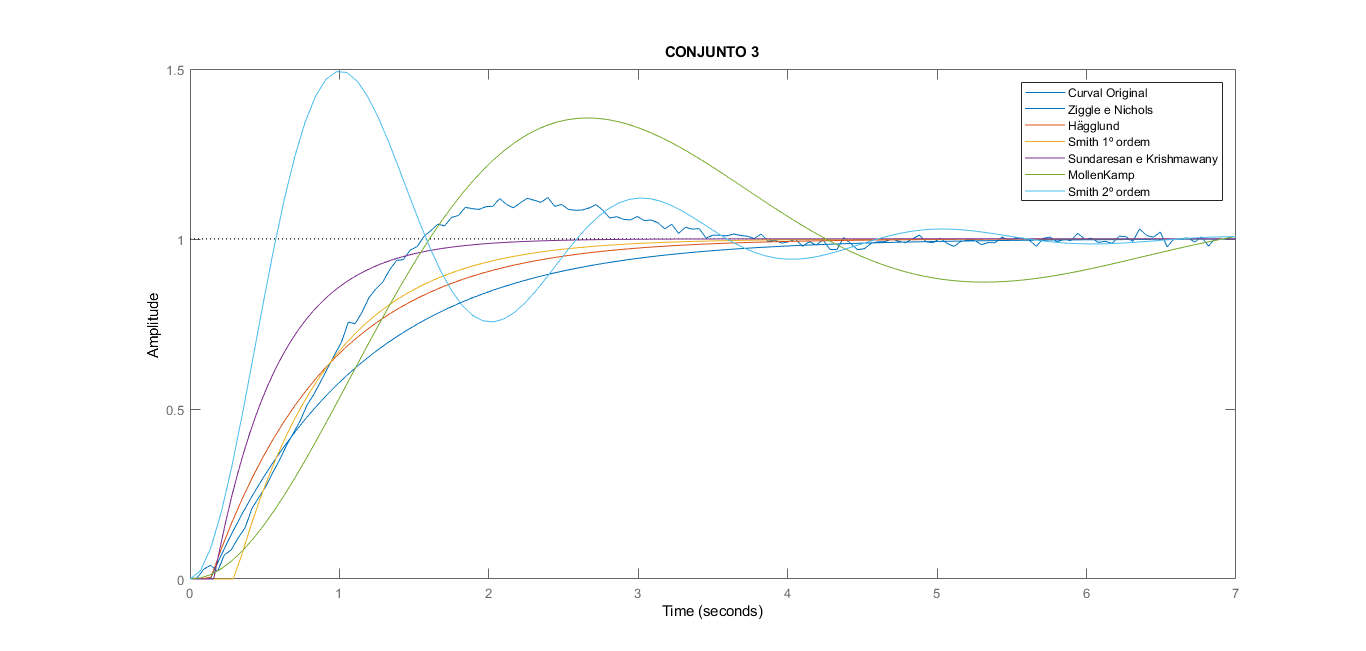
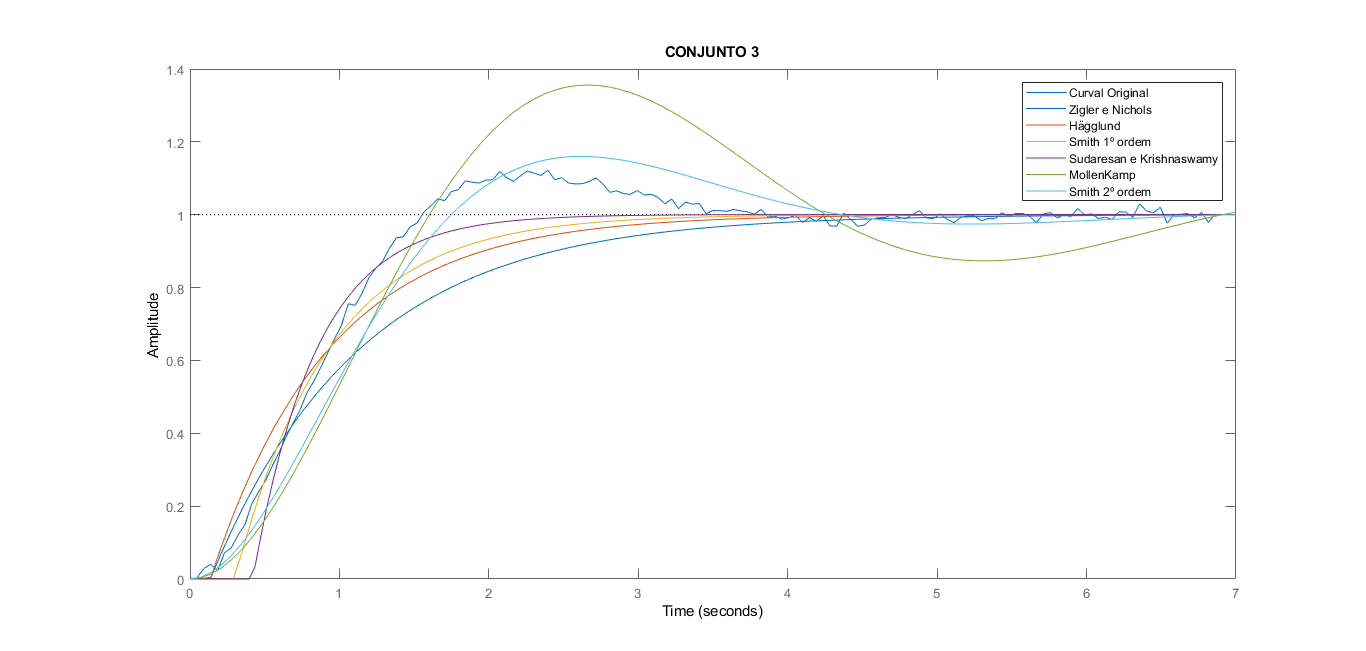
Ywana-Seborg

Changed region(s): [[0.123, 0.1229, 0.8917, 0.8909]]

diff --git a/Ywana_Seborg/Ywana_Seborg.m b/Ywana_Seborg/Ywana_Seborg.m
@@ -1,0 +1,66 @@
+s = tf('s');
+
+%% First
+
+kc = 1;
+
+g1 = 1/((s+1)^5);
+
+tf1 = g1*kc/(g1*kc+1);
+
+[y_step, t_step] = step(tf1);
+
+%%
+
+%plot(t_step, y_step)
+
+[y_p1,M] = max(y_step);
+
+y_length = length(y_step);
+
+y_inf = y_step(y_length); 
+
+y_desc = y_step(M:y_length);
+
+[y_m,M2] = min(y_desc);
+
+y_length2 = length(y_desc);
+
+y_desc2 = y_desc(M2:y_length2);
+
+y_p2 = max(y_desc2);
+
+%%
+theta = 1;
+tau = 1;
+A = 1;
+k = y_inf/(kc*(A-y_inf));
+kf = kc*k;
+
+k_linha = kf/(kf+1);
+
+tau_linha = ((theta*tau)/(2*(kf+1)))^0.5; 
+
+zeta_tf = (tau+0.5*theta*(1-kc))/(2*theta*tau*(kc+1))^0.5;
+
+
+%%
+s = tf('s')
+kp = 1;
+g1 = 1/((s+1)^5);
+
+tf1=g1/(g1+1);
+
+[y_step,t_step]=step(tf1);
+
+[M,I]=max(y_step);
+
+y1 = y_step(I,);
+
+%% yuanna-ciborg
+
+tau = (delta_t*(zeta*sqrt(kf+1)+sqrt(zeta^2*(kf+1)+kf))*sqrt((1-zeta^2)*(kf+1)))/pi;
+theta = (2*delta_t*sqrt((1-zeta)^2*(kf+1)))/(pi*(zeta*sqrt(kf+1)+sqrt(zeta^2*(kf+1)+kf)));
+zeta_m1=-log((y_inf-y_m)/(y_p1-y_inf))/sqrt(pi^2+(log((y_inf-y_m)/(y_p1-y_inf)))^2)
+
+

diff --git a/Ywana_Seborg/lab2identificação.m b/Ywana_Seborg/lab2identificação.m
@@ -1,0 +1,47 @@
+s = tf('s');
+
+%% First
+
+kc = 1;
+
+g1 = 1/((s+1)^5);
+
+tf1 = g1*kc/(g1*kc+1);
+
+[y_step, t_step] = step(tf1);
+
+%%
+
+%plot(t_step, y_step)
+
+[y_p1,M] = max(y_step);
+
+y_length = length(y_step);
+
+y_inf = y_step(y_length); 
+
+y_desc = y_step(M:y_length);
+
+[y_m,M2] = min(y_desc);
+
+y_length2 = length(y_desc);
+
+y_desc2 = y_desc(M2:y_length2);
+
+y_p2 = max(y_desc2);
+
+%%
+theta = 1;
+tau = 1;
+A = 1;
+k = y_inf/(kc*(A-y_inf));
+kf = kc*k;
+
+k_linha = kf/(kf+1);
+
+tau_linha = ((theta*tau)/(2*(kf+1)))^0.5; 
+
+zeta_tf = (tau+0.5*theta*(1-kc))/(2*theta*tau*(kc+1))^0.5;
+
+
+

diff --git a/smith_2ndOrder.m b/smith_2ndOrder.m
@@ -1,3 +1,4 @@
+
 %% Smith 2a ordem
 syms s;                                                               % define sym
 
@@ -17,7 +18,7 @@ tau = t60/t60_tau;
 if (zeta > 1)                                                              %superamortecido
     tau1=(tau*zeta + tau*sqrt(zeta^2-1));
     tau2=(tau*zeta - tau*sqrt(zeta^2-1));
-    GS2 = exp(-theta*s)k/((tau1*s+1)(tau2*s+1));
+    GS2 = exp(-theta*s)*k/((tau1*s+1)*(tau2*s+1));
     
 else                                                                       %subamortecido
     GS2 = exp(-theta*s)*k/(tau*s^2 + 2*zeta*tau*s + 1);

diff --git a/smith_method.m b/smith_method.m
@@ -1,11 +1,11 @@
 %% read file
 syms s;
 
-a = dlmread('conjunto2.txt');
+a = dlmread('conjunto1.txt');
 t = a(:,2);
 y = a(:,1); %y(t)
 y1 = y;
-%plot(t,y,'r')
+plot(t,y,'r')
 
 %% 
 %yy2 = smooth(a(:,2),a(:,1),'sgolay');
@@ -21,6 +21,7 @@ yy2 = sgolayfilt(y,2,51);
 [b,S,mu]  = polyfit(t, yy2, 15);
 fy = polyval(b,t,S,mu);
 y = fy;
+
 
 
 %% Calculo deflexao

diff --git a/mollenkamp.m b/mollenkamp.m
@@ -21,7 +21,7 @@ if(theta<0) theta = 0; end
 if (zeta > 1)
     tau1=(zeta+sqrt(zeta^2-1))/wn;
     tau2=(zeta-sqrt(zeta^2-1))/wn;
-    GM = exp(-theta*s)K/((tau1*s+1)(tau2*s+1));
+    GM = exp(-theta*s)*K/((tau1*s+1)*(tau2*s+1));
     
 else
     tau = 1/wn;
